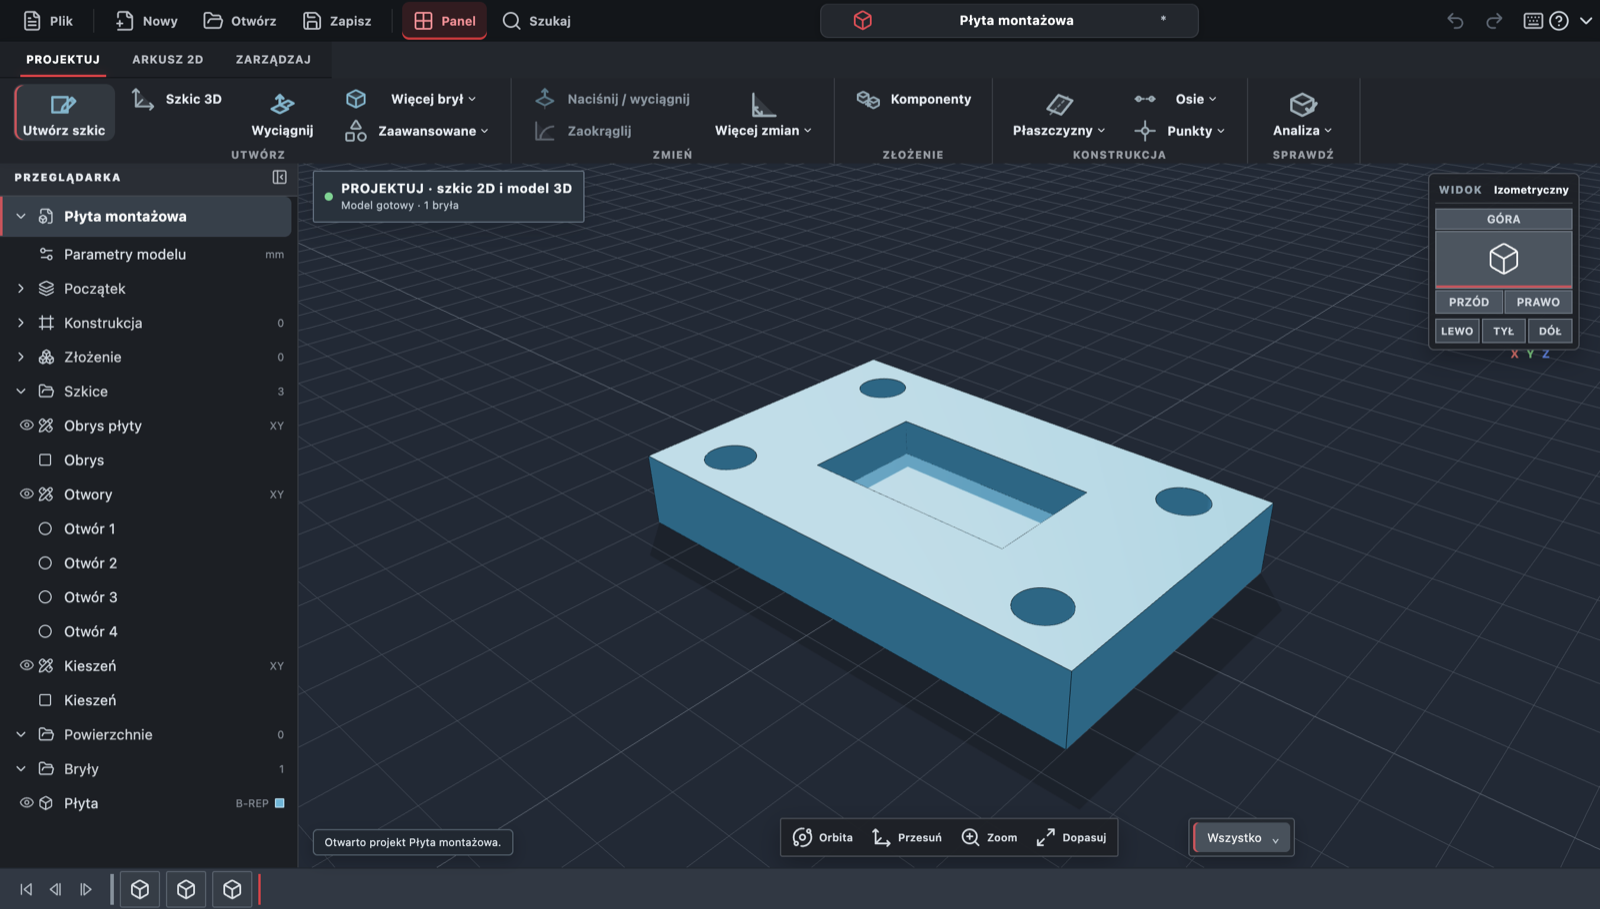
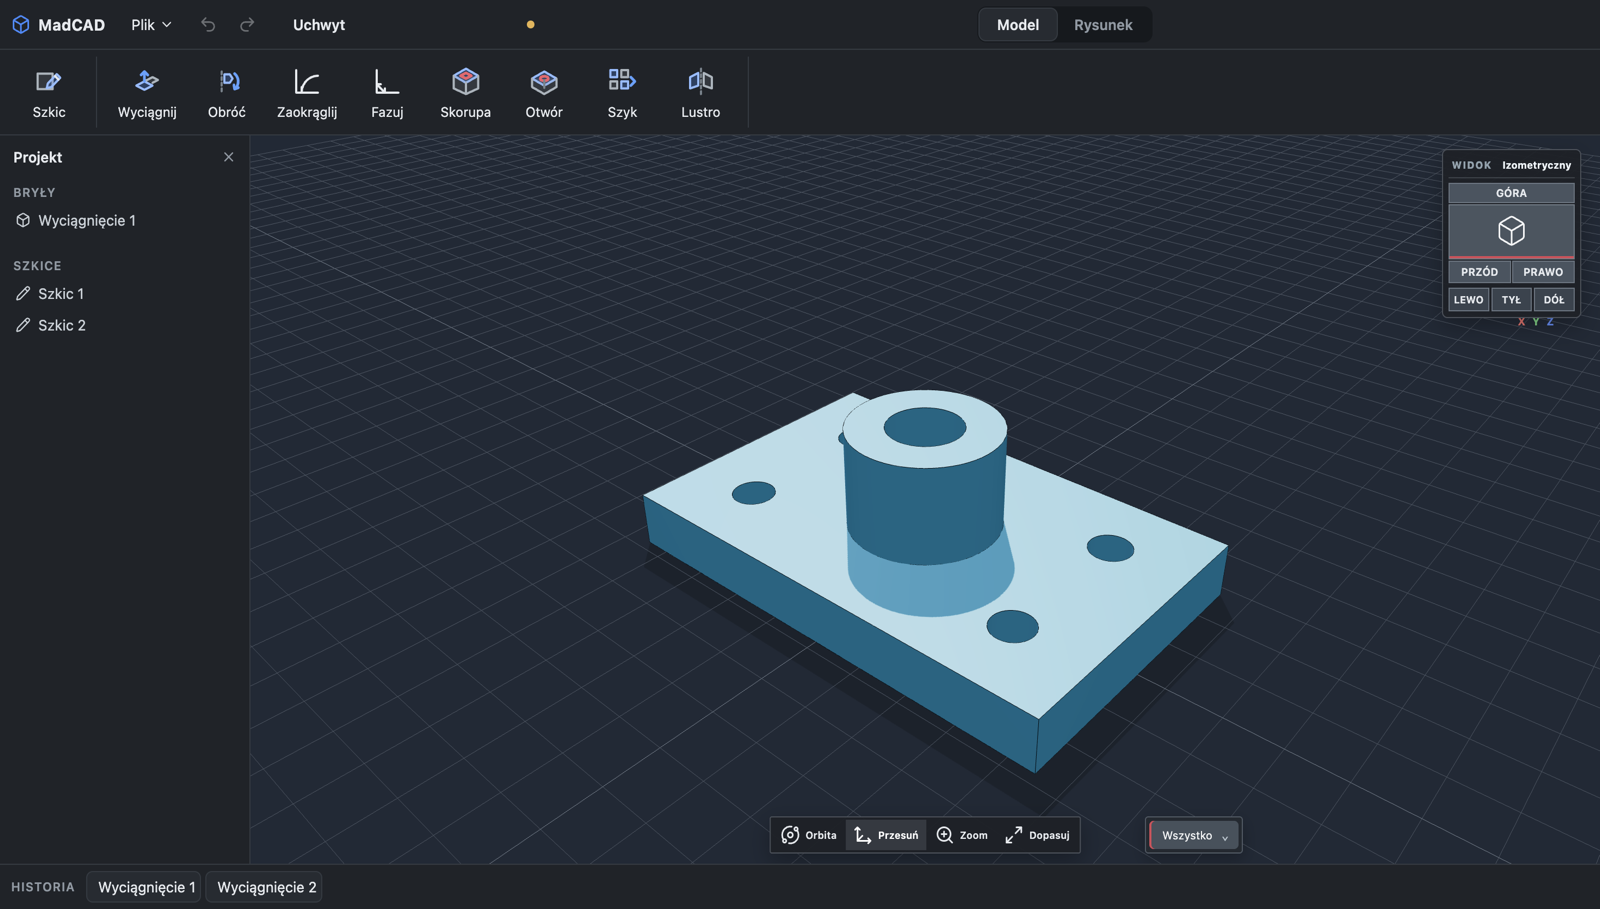
Site: 7.3.1 screenshot, Linux link to the last AppImage (6.6.1) (#147)

diff --git a/madcad-2d/server/seohost/madcad-site/index.html b/madcad-2d/server/seohost/madcad-site/index.html
@@ -44,7 +44,7 @@
           <p class="release-note">Wersja 7.3.1 · macOS, Windows i Linux · bezpłatnie do użytku prywatnego</p>
         </div>
         <figure class="product-shot">
-          <img src="assets/madcad-workspace.png?v=7.3.1" alt="Interfejs MadCAD z gotową bryłą po wyciągnięciu szkicu" />
+          <img src="assets/madcad-workspace.png?v=7.3.1" alt="Nowy interfejs MadCAD 7.3: bryła z otworami i tuleją, pasek narzędzi Szkic, Wyciągnij, Otwór, Szyk, Lustro" />
           <figcaption>Szkic, operacje 3D i historia modelu pracują w jednym dokumencie.</figcaption>
         </figure>
       </section>
@@ -71,8 +71,8 @@
           <article>
             <p class="platform">Linux</p>
             <h3>Linux x86_64</h3>
-            <p>Przenośny AppImage. Po pobraniu nadaj plikowi uprawnienie do uruchomienia.</p>
-            <a class="button primary" href="https://github.com/kamil5646/MadCAD/releases/download/v7.3.1/MadCAD-7.3.1-linux-x86_64.AppImage">Pobierz AppImage</a>
+            <p>Przenośny AppImage (wersja 6.6.1 — nowy interfejs na Linuksa wkrótce). Po pobraniu nadaj plikowi uprawnienie do uruchomienia.</p>
+            <a class="button primary" href="https://github.com/kamil5646/MadCAD/releases/download/v6.6.1/MadCAD-6.6.1-linux-x86_64.AppImage">Pobierz AppImage</a>
           </article>
         </div>
         <p class="download-meta"><a href="https://github.com/kamil5646/MadCAD/releases/tag/v7.3.1">Informacje o wydaniu i sumy SHA-256 →</a></p>
